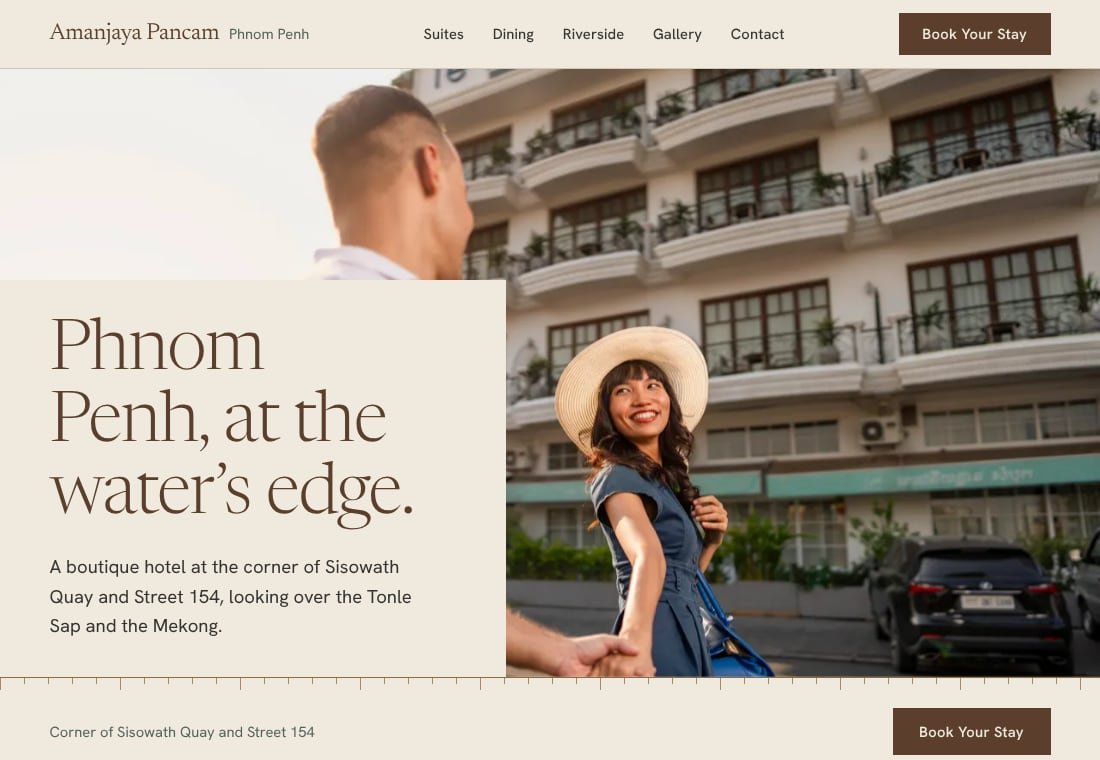
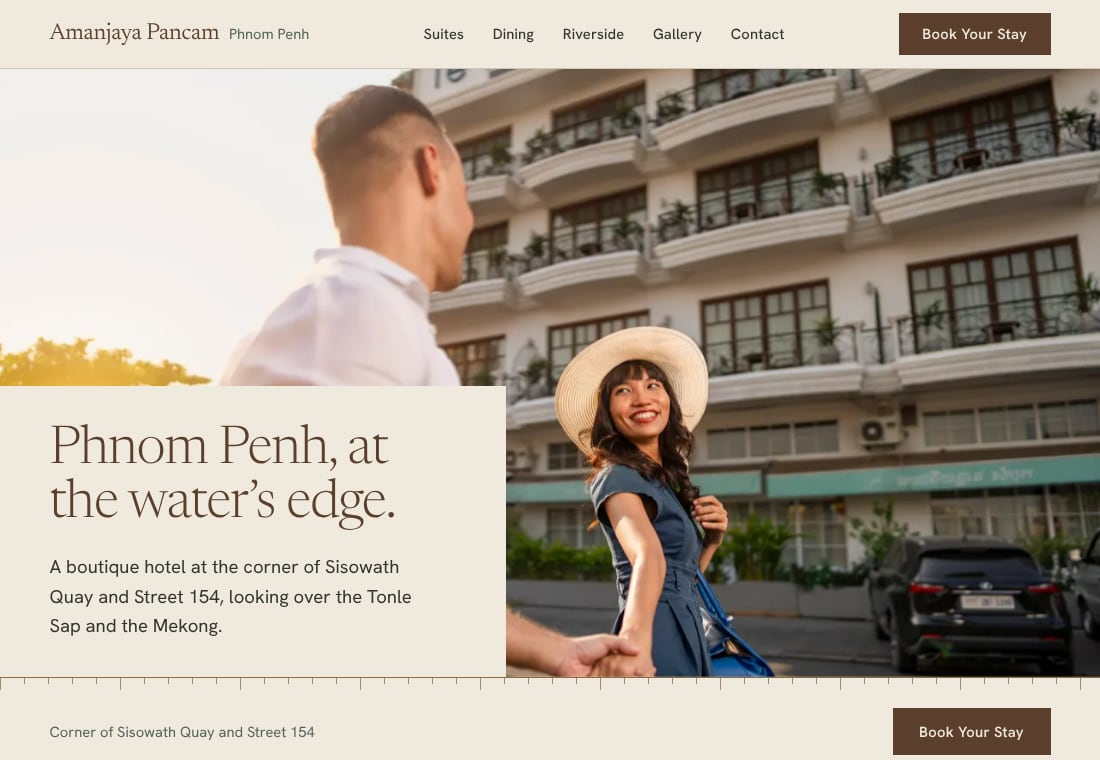
Typography: reduce heading scale by about 25%, document original fonts
- Type scale: H1, H2, H3 (and the suite names and footer wordmark that share
  their steps) are 25% smaller at desktop widths (58.8 / 42 / 27px max) and
  about 20% smaller on phones, so mobile headings stay comfortably above body
  size. Fluid ramps run 360 to 1280px. Body sizes are unchanged (verified
  identical before and after at six viewport widths). No font families changed.
- Hero: drop the 11ch cap on the H1, which no longer suited the smaller type
  and broke the line as "Phnom / Penh, at the".
- docs/TYPOGRAPHY.md: what the exports show about the original site's fonts,
  separating loaded from verified-used (the exports contain no font
  assignments), comparison with Newsreader / Hanken Grotesk, and a
  recommendation (retain for now; verify with the audit first).
- scripts/audit-fonts.mjs (npm run audit:fonts): read-only report of the fonts
  a page actually renders, to verify the original site's typography.
- Refreshed screenshots plus before/after and font-pairing comparisons.

Claude-Session: https://claude.ai/code/session_01Ltb6LhfXKYs7J7ZKfoUyej

Changed region(s): [[0.0, 0.3632, 0.4636, 0.6961]]

diff --git a/src/styles/global.css b/src/styles/global.css
@@ -19,9 +19,13 @@
   --step--1: clamp(0.875rem, 0.85rem + 0.1vw, 0.9375rem);
   --step-0: clamp(1.0625rem, 1.02rem + 0.2vw, 1.1875rem);
   --step-1: clamp(1.25rem, 1.15rem + 0.5vw, 1.5rem);
-  --step-2: clamp(1.6rem, 1.3rem + 1.4vw, 2.25rem);
-  --step-3: clamp(2rem, 1.4rem + 2.6vw, 3.5rem);
-  --step-4: clamp(2.5rem, 1.5rem + 4.2vw, 4.9rem);
+  /* Heading steps (h3, h2, h1). Fluid between 360px and 1280px wide, then fixed.
+     Largest sizes are 75% of the previous scale (2.25 / 3.5 / 4.9rem); the small-screen floors are
+     reduced by about 20-25% rather than more, so headings stay comfortably above body size on phones.
+     Body steps (--step--1 to --step-1) are unchanged. */
+  --step-2: clamp(1.3rem, 1.148rem + 0.674vw, 1.6875rem); /* h3: 20.8px to 27px */
+  --step-3: clamp(1.55rem, 1.129rem + 1.87vw, 2.625rem); /* h2: 24.8px to 42px */
+  --step-4: clamp(1.9rem, 1.206rem + 3.087vw, 3.675rem); /* h1: 30.4px to 58.8px */
 
   --gutter: clamp(1.25rem, 4.5vw, 3.5rem);
   --max: 84rem;

diff --git a/docs/TYPOGRAPHY.md b/docs/TYPOGRAPHY.md
@@ -1,0 +1,73 @@
+# Typography
+
+## 1. Heading scale (changed)
+
+Headings are about 25% smaller at desktop widths. The change is in the type scale (`--step-2`, `--step-3`, `--step-4` in `src/styles/global.css`), not in individual overrides. Body steps (`--step--1` to `--step-1`) are untouched: every body, caption, navigation and button size measures identically before and after.
+
+| Level | Before (360 → 1280px) | After (360 → 1280px) | Change |
+|---|---|---|---|
+| H1 | 40px → 78px | 30.4px → 58.8px | -24% at 360px, -25% from 1280px |
+| H2 | 32px → 56px | 24.8px → 42px | -22% at 360px, -25% from 1280px |
+| H3 | 25.8px → 36px | 20.8px → 27px | -19% at 360px, -25% from 1280px |
+
+The largest sizes are exactly 75% of the old ones. The small-screen floors are cut by about 20% rather than 25%, so a phone heading is never close to body size (body is 17px; the smallest heading is 20.8px). The ramp is linear between 360px and 1280px wide.
+
+The suite names and the footer wordmark share these steps, so they shrank with the headings. One knock-on change: the hero H1 had a `max-width: 11ch` tuned to the larger type, which made it break as "Phnom / Penh, at the". It is removed, and the heading now wraps to two balanced lines.
+
+Screenshots: `docs/screenshots/typography/before-after-desktop-hero.jpg`, `before-after-mobile.jpg`, plus the refreshed set in `docs/screenshots/`.
+
+## 2. What the original site's typography actually was
+
+**Short answer: it cannot be settled from the exports.** The exports show which fonts were loaded, not which were used where. Nothing in them assigns a font to a heading or to body text.
+
+### Verified from the exported HTML
+
+- Fonts loaded on the homepage (identical on the other pages):
+  - Five Google families, self-hosted by Elementor under `wp-content/uploads/elementor/google-fonts/`: **Roboto Slab, Roboto, Montserrat, Open Sans, Poppins**.
+  - One **Adobe Fonts (Typekit) kit**, `use.typekit.net/aip0vxp.css`, added by a "custom typekit" plugin.
+- The only `font-family` declaration in any of the nine exported pages is `inherit`. The CSS that sets fonts lives in files that were **not exported**: the Elementor kit and page stylesheets (`post-79.css`, `post-333.css`, `post-4962.css`, `post-1234.css`, `post-5251.css`, `post-3221.css`, `custom-frontend.min.css`), the theme stylesheets, and the Typekit kit itself. None of the embedded Elementor settings in the HTML mention typography either.
+- Stack: WordPress with the **Hello Elementor** theme (3.5.1), Elementor 4.3.5 and Elementor Pro, WPML (English and French).
+- Structure on the homepage: one H1, nine H2, two H3, four H4 and one H5. The header brand "amanjaya pancam PHNOM PENH" is live text in an H2 (the logo SVG is also loaded). The H1 is typed in capitals ("RIVERSIDE HOTEL PHNOM PENH"); other headings are typed in mixed case ("JUNIOR suite", "deluxe room", "FROM $81"), so any consistent capitals or lowercase on the live site would come from CSS that we cannot see.
+
+### Loaded but not verified as used
+
+| Font | What the evidence supports |
+|---|---|
+| Roboto, Roboto Slab | Loaded. I believe these are Elementor's out-of-the-box global fonts (Roboto for primary and text, Roboto Slab for secondary), in which case loading them says little about a deliberate choice. Not confirmed from the exports. |
+| Montserrat, Open Sans, Poppins | Loaded. These are not Elementor defaults, so someone probably chose them somewhere in the header, footer, a popup or the page. Elementor usually requests a Google font only when a rendered document references it, which supports this. It is an inference, and nothing shows which role each plays. |
+| Adobe Fonts kit `aip0vxp` | Loaded site-wide. The family names are in the kit's CSS, which is not in the exports and could not be fetched from the build environment. Unknown whether it is used for headings, the logo, or nothing. |
+| Hello Elementor defaults | The theme's own heading and body rules are not exported. Not verified. |
+
+### How to make it verified (about a minute)
+
+Any one of these settles it:
+
+1. Run `node scripts/audit-fonts.mjs` on a machine that can reach the live site (needs Playwright; see the header of the script). It reports, per role (body, H1 to H4, paragraphs, buttons, navigation, brand text), the font Chromium actually painted, plus size, weight and capitalisation. It is read-only: it opens the page like a visitor. I tested it on this project's own preview, where it correctly reports Newsreader and Hanken Grotesk.
+2. In Chrome DevTools, select an element, open Computed and read "Rendered Fonts".
+3. Save the Elementor CSS files listed above and the Typekit CSS into the repository for reference.
+
+## 3. Comparison with the current pairing
+
+| | Original (what can be said) | Current |
+|---|---|---|
+| Fonts loaded | 5 Google families plus an Adobe kit | 2 families |
+| Character | Mostly neutral sans-serifs (Roboto, Open Sans, Montserrat, Poppins) plus a slab serif (Roboto Slab) | A refined text serif for headings, a clean grotesque for text |
+| Identity carried by | Unknown: probably the logo, the lowercase "amanjaya pancam" brand text, and the photography | Newsreader headings, Hanken Grotesk text, the waterline |
+| Licence | Google fonts are open source; the Adobe kit needs an Adobe subscription tied to that kit | Both open source (SIL OFL), self-hosted |
+| Languages | None of the five Google fonts covers Khmer; French is fine | Same: French fine, Khmer needs Noto Serif / Sans Khmer later |
+
+`docs/screenshots/typography/pairing-comparison.jpg` sets four pairings side by side with the same copy: ours, Roboto Slab + Roboto, Montserrat + Open Sans, and Poppins + Open Sans. It is illustrative only, built from the loaded fonts; it does not reproduce the live site.
+
+## 4. Recommendation
+
+**Retain Newsreader and Hanken Grotesk for now, and settle two things before deciding anything more.**
+
+1. **There is no verified brand typeface to preserve.** The set of five similar sans-serifs plus a slab looks like accumulated template choices rather than a type system, and Roboto and Roboto Slab are probably just Elementor's defaults. Switching to them (or to Montserrat, Poppins or Open Sans) would not recover an identity; it would only make the site look like its template again.
+2. **Continuity is better carried by the name, the logo and the photography.** The wordmark in the header is currently typeset in Newsreader. If the existing logo (`APH-logo-final.svg`) is the identity, using the real file in the header will do more for recognition than any body font. That file could not be downloaded here; it needs to come from the hotel.
+
+Then:
+
+- **Run the audit.** If it shows the hotel really uses one distinctive display font (from the Adobe kit, for example), that is the one font worth echoing in heading style or in the logo. Do not adopt the Adobe font itself without checking its licence for a new site.
+- **Hanken Grotesk can stay.** It sits in the same neutral sans lane as Roboto and Open Sans, so body text will not feel foreign to returning guests, and it has slightly more character.
+- **Newsreader is the only choice with real distance from the original** (a quiet, bookish serif against sturdy slabs and geometric sans). That is the point of the creative direction, but it is the thing to revisit if the audit shows the hotel values its slab headings.
+- **Nothing to replace now.** No font family was changed in this pass.

diff --git a/README.md b/README.md
@@ -19,6 +19,7 @@ To check the production build:
 npm run build && npm run preview
 npm run check          # type and template checks
 npm run fetch:candidates   # review room-photo candidates (needs internet access to the live site)
+npm run audit:fonts    # report the fonts a page really renders (needs Playwright; see docs/TYPOGRAPHY.md)
 PUBLIC_HERO_OPTION=B npm run dev   # preview an alternative hero (B, C or D)
 ```
 
@@ -38,6 +39,7 @@ The hotel's own photographs are committed in `src/assets/photos/` (never hotlink
 | Design rationale | `docs/DESIGN-RATIONALE.md` |
 | Photo review, hero options, QA notes | `docs/PHOTO-REVIEW.md` |
 | Room photo shortlist | `docs/ROOM-PHOTO-CANDIDATES.md` |
+| Type scale, original-site typography, font recommendation | `docs/TYPOGRAPHY.md` |
 | Screenshots | `docs/screenshots/` |
 
 The booking button reads one setting (`booking.url`). It currently points at the engine's undated property page, flagged as unverified.

diff --git a/docs/DESIGN-RATIONALE.md b/docs/DESIGN-RATIONALE.md
@@ -12,7 +12,7 @@ The hero text sits on a solid ivory panel that rises from the page into the phot
 
 - Headings: Newsreader (variable, light weights, optical sizes), self-hosted.
 - Interface and body: Hanken Grotesk (variable), self-hosted.
-- Fluid scale from `--step--1` to `--step-4`; lines held to about 62 characters.
+- Fluid scale from `--step--1` to `--step-4`; lines held to about 62 characters. Headings run 20.8 to 27px (H3), 24.8 to 42px (H2) and 30.4 to 58.8px (H1) between 360 and 1280px wide; body text is 17 to 19px. Details and the history of this change are in `docs/TYPOGRAPHY.md`.
 - Both are open-source (SIL OFL). Noto Serif/Sans Khmer are the planned pair for Khmer later.
 
 ## Colour
